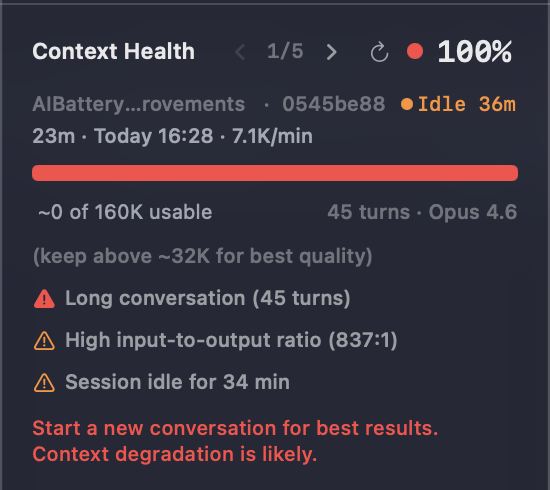
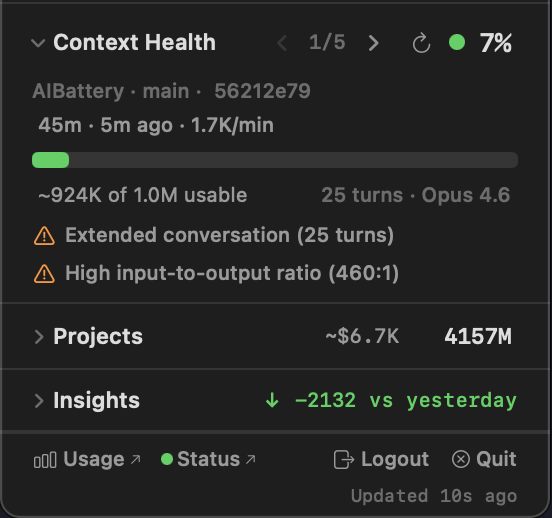
docs: update screenshots, add Activity & Insights section to README (#128)
- Updated dashboard, context, settings screenshots with fresh captures
- Added activity.png screenshot
- New Activity & Insights section in README with chart mode table

diff --git a/README.md b/README.md
@@ -283,6 +283,22 @@ The header shows an **update indicator** when a new version is available — the
 
 ---
 
+## 📉 Activity & Insights
+
+<img src="screenshots/activity.png" width="280" alt="Activity chart and insights" />
+
+Interactive charts across three time windows:
+
+| Mode | Window | Shows |
+|---|---|---|
+| **24H** | Trailing 24 hours | Hourly activity, vs-yesterday trend, peak hour |
+| **7D** | Rolling 7 days | Daily activity, weekly trend, busiest day |
+| **12M** | Rolling 12 months | Monthly activity, month-over-month trend, busiest month |
+
+Below the chart: API-equivalent cost per model, throttle count, and cumulative stats (All Time messages/sessions, Longest session, Period date range).
+
+---
+
 ## 💰 API Cost Equivalent
 
 The dollar amounts in the Insights and Projects sections show what your usage **would have cost on Anthropic's pay-per-token API**. This is not your actual bill — Pro, Max, and Teams subscribers pay a flat monthly fee, not per-token.
